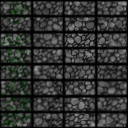
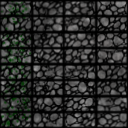
gave Sprites support for multiple variants

diff --git a/Graphics.cc b/Graphics.cc
@@ -73,17 +73,21 @@ void Graphics::Draw(b2Body *body) {
 	float angle = body->GetAngle() / M_PI * 180;
 
 	for(b2Fixture *f = body->GetFixtureList(); f; f = f->GetNext()) {
+		// select sprite variant based on fixture pointer value
+		Sprite *sprite = (Sprite*)f->GetUserData();
+		int i = (int)(uintptr_t)f / 32 % sprite->n_srcs;
+		SDL_Rect *src = sprite->srcs[i];
+
 		// calculate the destination rectangle
 		b2Vec2 center= f->GetAABB(0).GetCenter();
-		Sprite *sprite = (Sprite*)f->GetUserData();
 		SDL_Rect dst = {
-			(int)((center.x - sprite->src->w/32.0f) * grid->size),
-			(int)((center.y - sprite->src->h/32.0f) * grid->size),
-			sprite->src->w*2, sprite->src->h*2
+			(int)((center.x - src->w/32.0f) * grid->size),
+			(int)((center.y - src->h/32.0f) * grid->size),
+			src->w*2, src->h*2
 		};
 
 		// draw the sprite
-		SDL_RenderCopyEx(renderer, sprite->texture, sprite->src, &dst,
+		SDL_RenderCopyEx(renderer, sprite->texture, sprite->srcs[i], &dst,
 				angle, NULL, SDL_FLIP_NONE);
 	}
 }

diff --git a/engine.cc b/engine.cc
@@ -17,16 +17,17 @@ int main(int argc, char *argv[]) {
     // Load textures and create sprites
     Spritesheet *bricks = graphics->CreateSpritesheet("assets/brick.png", 16, 16, 2, 5);
     Spritesheet *rocks  = graphics->CreateSpritesheet("assets/rocks.png",  32, 16, 4, 8);
-    Sprite *crate = bricks->GetSprite(1,0);
-    Sprite *brick = bricks->GetSprite(0,0);
-    Sprite *rock  = rocks->GetSprite(0,1);
+    Sprite *crate = bricks->GetSprite(1, 0, 1, 1);
+    Sprite *brick = bricks->GetSprite(0, 0, 1, 1);
+    Sprite *rock  = rocks->GetSprite(0, 0, 4, 8);
 
     // Create tiles
     for(int i = 0; i < 12; i++)
-	world->AddTile(brick, i, 12);
+		world->AddTile(brick, i, 12);
 
     // Create game objects
-    world->AddEntity(rock, 5.0f, 0.0f);
+    for(int i = 0; i < 6; i++)
+    world->AddEntity(rock, 5.0f, i*2.0f);
 
     Entity *player = world->AddEntity(crate, 3.0f, 0.0f);
     for(int i = 0; i < 18; i++)

diff --git a/Sprite.cc b/Sprite.cc
@@ -1,11 +1,18 @@
 #include "Sprite.h"
 
-Sprite* Spritesheet::GetSprite(int x, int y) {
-	SDL_Rect *src = new SDL_Rect();	
-	src->x = w*x;
-	src->y = h*y;
-	src->w = w;
-	src->h = h;
-	return new Sprite(texture, src);
+Sprite* Spritesheet::GetSprite(int x, int y, int xs, int ys) {
+	SDL_Rect **srcs = new SDL_Rect*[xs*ys];
+	int n = 0;
+	for(int i = x; i < x+xs; i++) {
+		for(int j = y; j < y+ys; j++) {
+			srcs[n] = new SDL_Rect();
+			srcs[n]->x = i*w;
+			srcs[n]->y = j*h;
+			srcs[n]->w = w;
+			srcs[n]->h = h;
+			n++;
+		}
+	}
+	return new Sprite(texture, srcs, n);
 }
 

diff --git a/Sprite.h b/Sprite.h
@@ -5,9 +5,10 @@
 
 struct Sprite {
 	SDL_Texture *texture;
-	SDL_Rect *src;
-	Sprite(SDL_Texture* t, SDL_Rect* r):
-		texture(t), src(r) { }
+	SDL_Rect **srcs;
+	int n_srcs;
+	Sprite(SDL_Texture* t, SDL_Rect** rs, int n):
+		texture(t), srcs(rs), n_srcs(n) { }
 };
 
 struct Spritesheet {
@@ -15,7 +16,7 @@ struct Spritesheet {
 	int w, h, nx, ny;
 	Spritesheet(SDL_Texture* t, int w, int h, int nx, int ny):
 		texture(t), w(w), h(h), nx(nx), ny(ny) { }
-	Sprite* GetSprite(int, int);
+	Sprite* GetSprite(int, int, int, int);
 };
 
 

diff --git a/World.cc b/World.cc
@@ -31,12 +31,9 @@ Entity* World::AddEntity(Sprite *sprite, float x, float y) {
 
 	// TODO allow for multiple fixtures
 	b2PolygonShape box;
-	box.SetAsBox(sprite->src->w/32.0f, sprite->src->h/32.0f);
+	box.SetAsBox(sprite->srcs[0]->w/32.0f, sprite->srcs[0]->h/32.0f);
 	b2Fixture *fixture = body->CreateFixture((b2Shape*)&box, 10);
-
 	fixture->SetUserData(sprite);
-	b2Vec2 center= fixture->GetAABB(0).GetCenter();
-	printf("%.2f ,%.2f\n", center.x, center.y);
 
 	return new Entity(body);
 }
